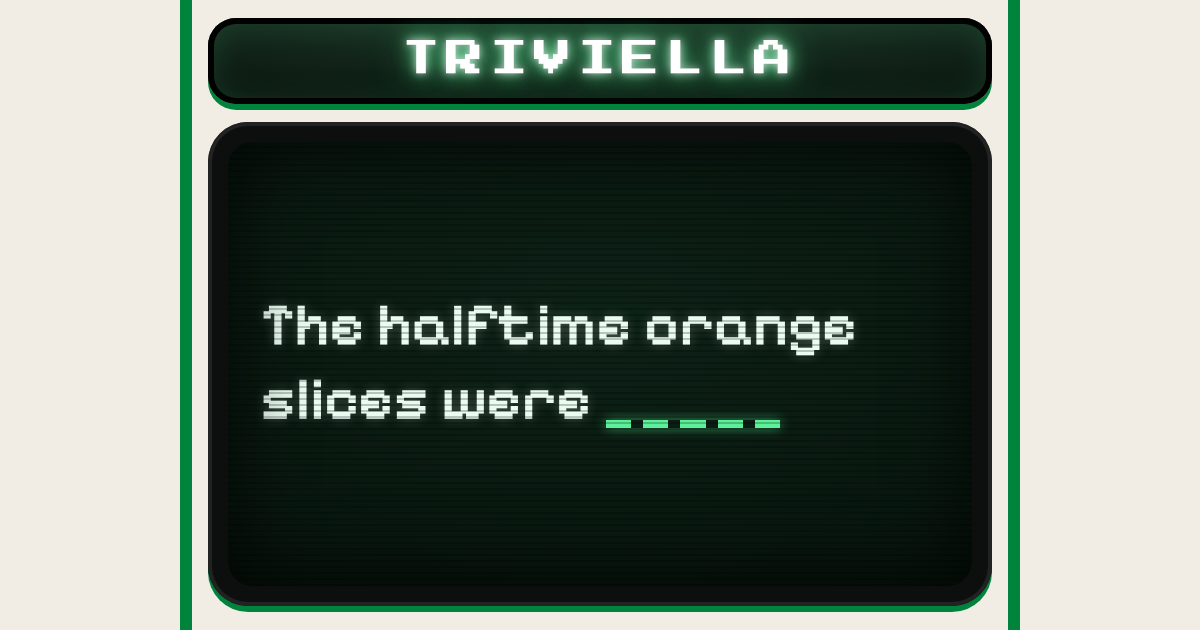
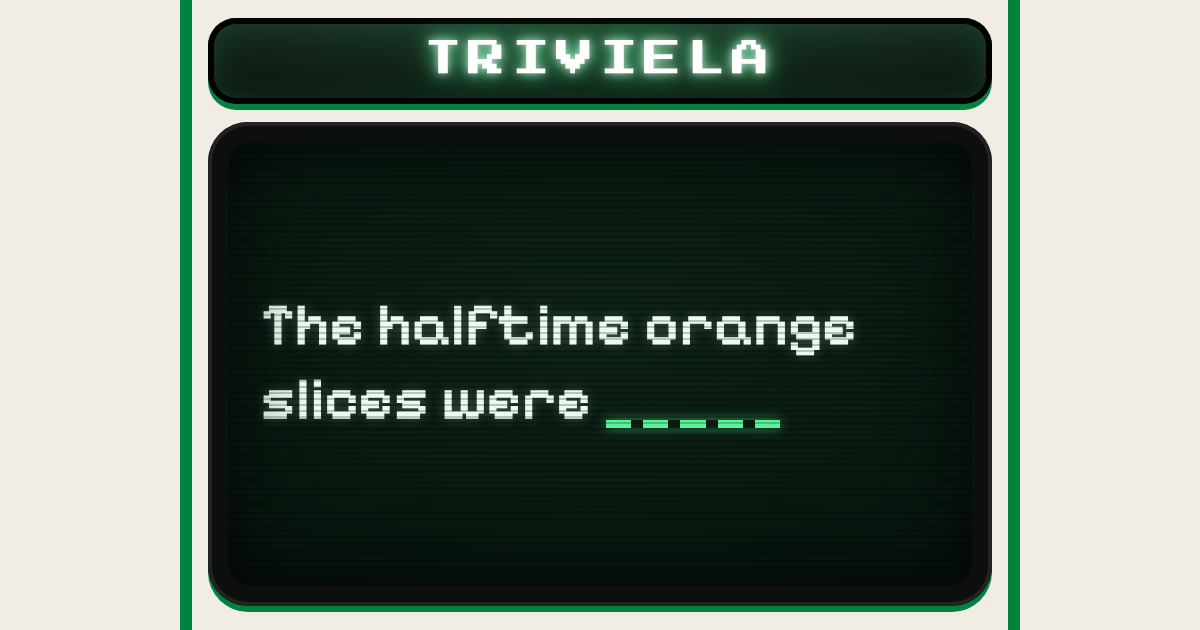
Rename to Triviela, one L: trivia plus trivela
Claude-Session: https://claude.ai/code/session_01CQZiDpqJnGYzEUQYDbpWvc

Changed region(s): [[0.3083, 0.0302, 0.6783, 0.1508]]

diff --git a/docs/index.html b/docs/index.html
@@ -7,18 +7,18 @@
 <meta name="apple-mobile-web-app-capable" content="yes">
 <meta name="mobile-web-app-capable" content="yes">
 <meta name="apple-mobile-web-app-status-bar-style" content="black-translucent">
-<meta name="apple-mobile-web-app-title" content="Triviella">
+<meta name="apple-mobile-web-app-title" content="Triviela">
 <link rel="apple-touch-icon" href="apple-touch-icon.png">
 <link rel="icon" type="image/png" href="icon-192.png">
 <link rel="manifest" href="manifest.webmanifest">
-<meta property="og:title" content="Triviella">
+<meta property="og:title" content="Triviela">
 <meta property="og:type" content="website">
 <meta property="og:url" content="https://fernforager.github.io/blank-space-baby/">
 <meta property="og:image" content="https://fernforager.github.io/blank-space-baby/og.png">
 <meta property="og:image:width" content="1200">
 <meta property="og:image:height" content="630">
 <meta name="twitter:card" content="summary_large_image">
-<title>Triviella</title>
+<title>Triviela</title>
 <link rel="preconnect" href="https://fonts.googleapis.com"><link rel="preconnect" href="https://fonts.gstatic.com" crossorigin>
 <link rel="stylesheet" href="https://fonts.googleapis.com/css2?family=Press+Start+2P&family=Pixelify+Sans:wght@500;600;700&display=swap">
 </head>
@@ -164,7 +164,7 @@ button { -webkit-tap-highlight-color: transparent; font-variant-ligatures: none;
 @media (prefers-reduced-motion: reduce) { .key, .choice .def { transition: none; } .pips i.bump, .choice.wrong, .flick, .blank, .go, .boss, .big-icon, .pips i.new, .board .p.new svg, .board.awake .boss-p svg, .cab.poweron .marquee h1 { animation: none; } .flyer { transition: none; } }
 </style>
 <div class="cab" id="cab" data-v="select">
-  <div class="marquee"><h1>TRIVIELLA</h1></div>
+  <div class="marquee"><h1>TRIVIELA</h1></div>
   <div class="bezel">
     <div class="screen" id="flip" aria-live="polite">
       <section class="view" id="v-select"><div class="board" id="lair"></div></section>

diff --git a/build/template.html b/build/template.html
@@ -1,4 +1,4 @@
-<title>Triviella</title>
+<title>Triviela</title>
 <meta name="claude:viewport-fit-sides" content="cover">
 <link rel="preconnect" href="https://fonts.googleapis.com"><link rel="preconnect" href="https://fonts.gstatic.com" crossorigin>
 <link rel="stylesheet" href="https://fonts.googleapis.com/css2?family=Press+Start+2P&family=Pixelify+Sans:wght@500;600;700&display=swap">
@@ -143,7 +143,7 @@ button { -webkit-tap-highlight-color: transparent; font-variant-ligatures: none;
 @media (prefers-reduced-motion: reduce) { .key, .choice .def { transition: none; } .pips i.bump, .choice.wrong, .flick, .blank, .go, .boss, .big-icon, .pips i.new, .board .p.new svg, .board.awake .boss-p svg, .cab.poweron .marquee h1 { animation: none; } .flyer { transition: none; } }
 </style>
 <div class="cab" id="cab" data-v="select">
-  <div class="marquee"><h1>TRIVIELLA</h1></div>
+  <div class="marquee"><h1>TRIVIELA</h1></div>
   <div class="bezel">
     <div class="screen" id="flip" aria-live="polite">
       <section class="view" id="v-select"><div class="board" id="lair"></div></section>

diff --git a/build/head.html b/build/head.html
@@ -7,11 +7,11 @@
 <meta name="apple-mobile-web-app-capable" content="yes">
 <meta name="mobile-web-app-capable" content="yes">
 <meta name="apple-mobile-web-app-status-bar-style" content="black-translucent">
-<meta name="apple-mobile-web-app-title" content="Triviella">
+<meta name="apple-mobile-web-app-title" content="Triviela">
 <link rel="apple-touch-icon" href="apple-touch-icon.png">
 <link rel="icon" type="image/png" href="icon-192.png">
 <link rel="manifest" href="manifest.webmanifest">
-<meta property="og:title" content="Triviella">
+<meta property="og:title" content="Triviela">
 <meta property="og:type" content="website">
 <meta property="og:url" content="https://fernforager.github.io/blank-space-baby/">
 <meta property="og:image" content="https://fernforager.github.io/blank-space-baby/og.png">

diff --git a/CLAUDE.md b/CLAUDE.md
@@ -1,9 +1,9 @@
-# Triviella — brief for every session
+# Triviela — brief for every session
 
 Read this first. It holds the decisions already made so nobody re-learns them. Then read DOSSIER.md for where things stand, what’s been tried and what’s next.
 
 ## What it is
-**Triviella** (named after a genus of sea snail, with "trivia" built in, Morg's pick on Oct 15, 2026) is a fill-in-the-blank arcade word game for a youth girls' soccer team (Seattle Celtic G14, players ~12–14) and their parents. Built by Morg (owner, names everything, approves all player-facing text) with Claude. Soft-launching standalone at https://fernforager.github.io/blank-space-baby/. The repo, the web address and the saved-progress keys (`bsb-…`) keep the old name Blank Space Baby on purpose: changing them would break links and wipe players' progress. Later it folds into the team's Carpool HQ app (repo FernForager/carpool-hq) as Arcade game #2 by copying `docs/index.html` into HQ's Arcade.
+**Triviela** (trivia + trivela, the outside-of-the-foot curling kick, Morg's coinage on Oct 15, 2026. One L. Portuguese spells the kick "trivela" and has no "triviela" variant, so the extra i is ours and deliberate) is a fill-in-the-blank arcade word game for a youth girls' soccer team (Seattle Celtic G14, players ~12–14) and their parents. Built by Morg (owner, names everything, approves all player-facing text) with Claude. Soft-launching standalone at https://fernforager.github.io/blank-space-baby/. The repo, the web address and the saved-progress keys (`bsb-…`) keep the old name Blank Space Baby on purpose: changing them would break links and wipe players' progress. Later it folds into the team's Carpool HQ app (repo FernForager/carpool-hq) as Arcade game #2 by copying `docs/index.html` into HQ's Arcade.
 
 ## Working with Morg
 - He's an English major and veteran editor/localizer, new to coding, learning by building. Explain in plain language. Suggest better workflows when you see them.
@@ -41,7 +41,7 @@ Hex is the standard for screens. For print, convert with the Pantone Connect app
 Game-only effects, not brand colors: the CRT glow #5CF09A, and the wrong-answer red #FF5A5F. Don't add new greens.
 
 ## The game
-- Cabinet look: the phone is an arcade cabinet on HQ's warm white, with Celtic Green trim along the sides and under the black parts. Marquee sign up top reading TRIVIELLA, a CRT screen in a black bezel (scanlines, glowing green pixel text), and a black control panel with push-buttons.
+- Cabinet look: the phone is an arcade cabinet on HQ's warm white, with Celtic Green trim along the sides and under the black parts. Marquee sign up top reading TRIVIELA, a CRT screen in a black bezel (scanlines, glowing green pixel text), and a black control panel with push-buttons.
 - No title screen: the game opens straight on category select, and the sign flickers on. (Tried and dropped: an attract-mode title, coin slots, a pinball start button. Morg found them janky.)
 - Category select: ten named cream keys in two columns on the panel, in the order of the plan table below. Each key has a small pentagon at the right: an outline until beaten, then solid black like a ball patch. Categories without a deck yet show as dim, disabled keys. The CRT shows the board: six same-size pentagons, one in the middle with a simple lock and five around it, clockwise from the top, all dim green outlines. Beating a category sends a glowing white pentagon flying from its key into the next open slot. Like seams on a real ball, flat sides face each other: each outer pentagon turns a flat side to the center (slot k is turned 72k degrees), the center points down, and a flying pentagon turns into place as it lands. Rotation lives on the polygon (an SVG transform), so CSS animations on the shape can't undo it. Five filled slots wake the boss: the lock goes, the center fills white and bobs, and tapping the screen opens the boss. No per-category colors: it's a soccer ball, so black and white only (Morg's call). All pentagons are vector shapes from `pent()` (filled, or `pent(true)` for an outline), never pixel sprites: a pixel grid can't hold a pentagon's 36° and 72° edges, and percentage-sized sprites land on fractional device pixels. Pixel sprites must render at whole-number device pixels. The five icons (phone, cassette, ball, bracelet, trophy) still show in the play HUD.
 - Play: one sentence with a blinking dashed blank and three cream buttons. Right = green with a pixel ✓. Wrong = red with a pixel ✕ and a shake, and the other choice dims. After answering, the blank fills in with the right answer: glowing green on a win, plain white with a dashed underline on a miss. Meanings show only on the buttons (the right answer's, plus your own wrong pick's) and wrap to two lines at most. The untouched choice stays unexplained.

diff --git a/DOSSIER.md b/DOSSIER.md
@@ -1,4 +1,4 @@
-# Dossier: Triviella (formerly Blank Space Baby)
+# Dossier: Triviela (formerly Blank Space Baby)
 
 Handoff for Claude Code sessions, written Oct 14, 2026 at the end of the session that built the game. Read `CLAUDE.md` first: it has the standing rules (house style, sources, look, game rules). This file covers where things stand, what's been tried, what's next and how to work.
 
@@ -95,7 +95,7 @@ This repo is **public**. Never commit personal details: no last names, addresses
 
 ## 8. Things tried and dropped (don't re-propose)
 
-- **Names:** Decode It (an early working title), Wait Actually, Slango, Slangle, Slang Wrangler, Slanguage Arts. Morg named it **Blank Space Baby**, then renamed it **Triviella** on Oct 15, 2026: the Taylor Swift pun leaned too hard on one category out of ten. Also offered and passed over: Ball Knowledge, Five-a-Side, Mind the Gap, Nutmeg, Fill the Gap, Patchwork, Pass It On, Blank Check, and Triviela (the trivela kick pun).
+- **Names:** Decode It (an early working title), Wait Actually, Slango, Slangle, Slang Wrangler, Slanguage Arts. Morg named it **Blank Space Baby**, then renamed it **Triviela** on Oct 15, 2026 (trivia + trivela): the Taylor Swift pun leaned too hard on one category out of ten. Also tried and passed over: Triviella (the sea snail genus, two L's) and Triviidae (its family, hard to say), plus Ball Knowledge, Five-a-Side, Mind the Gap, Nutmeg, Fill the Gap, Patchwork, Pass It On and Blank Check.
 - **Look:**
   - A full Apple-style redesign. Morg's reaction: "I liked it before."
   - A gold star on wins.
